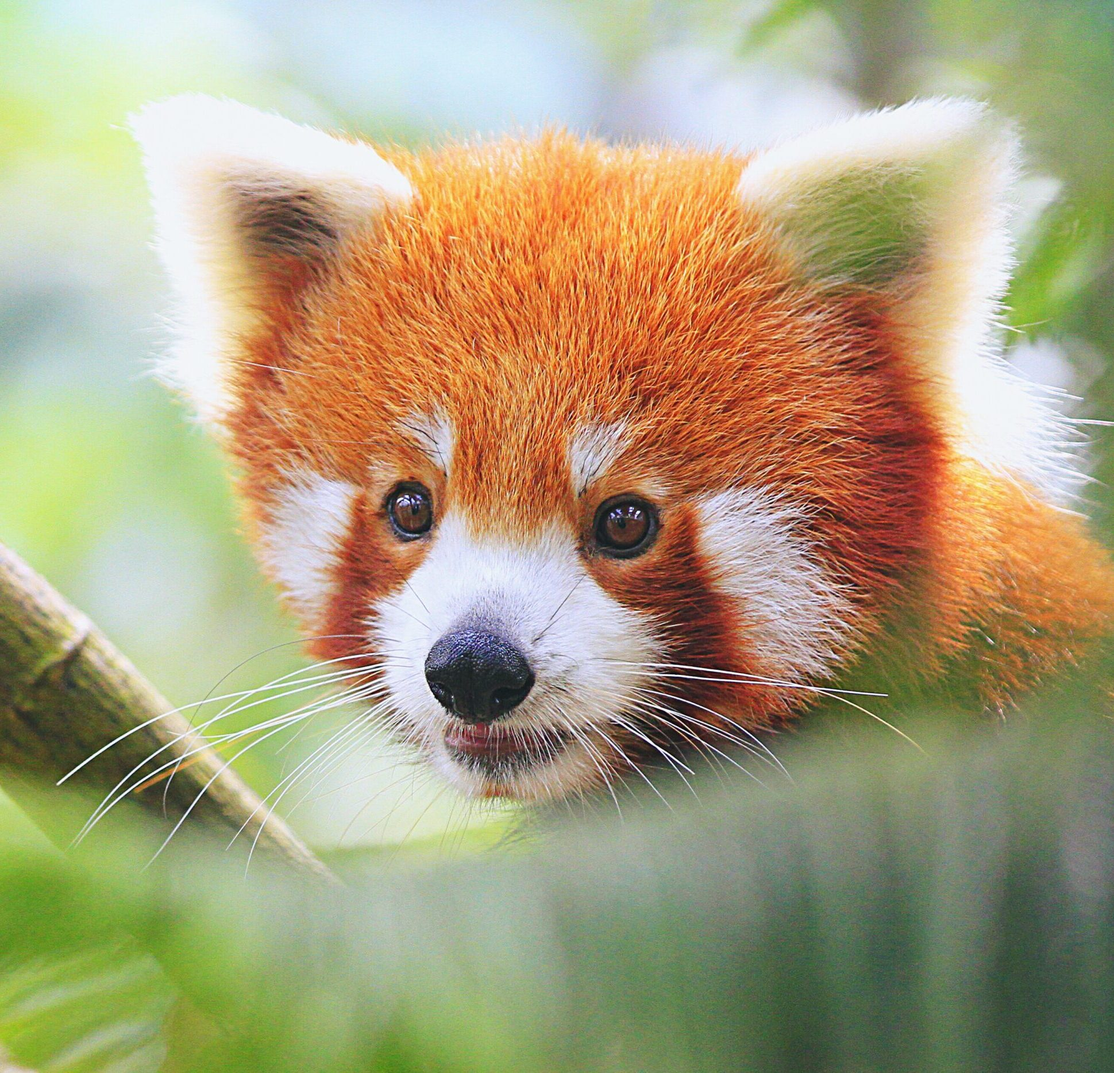
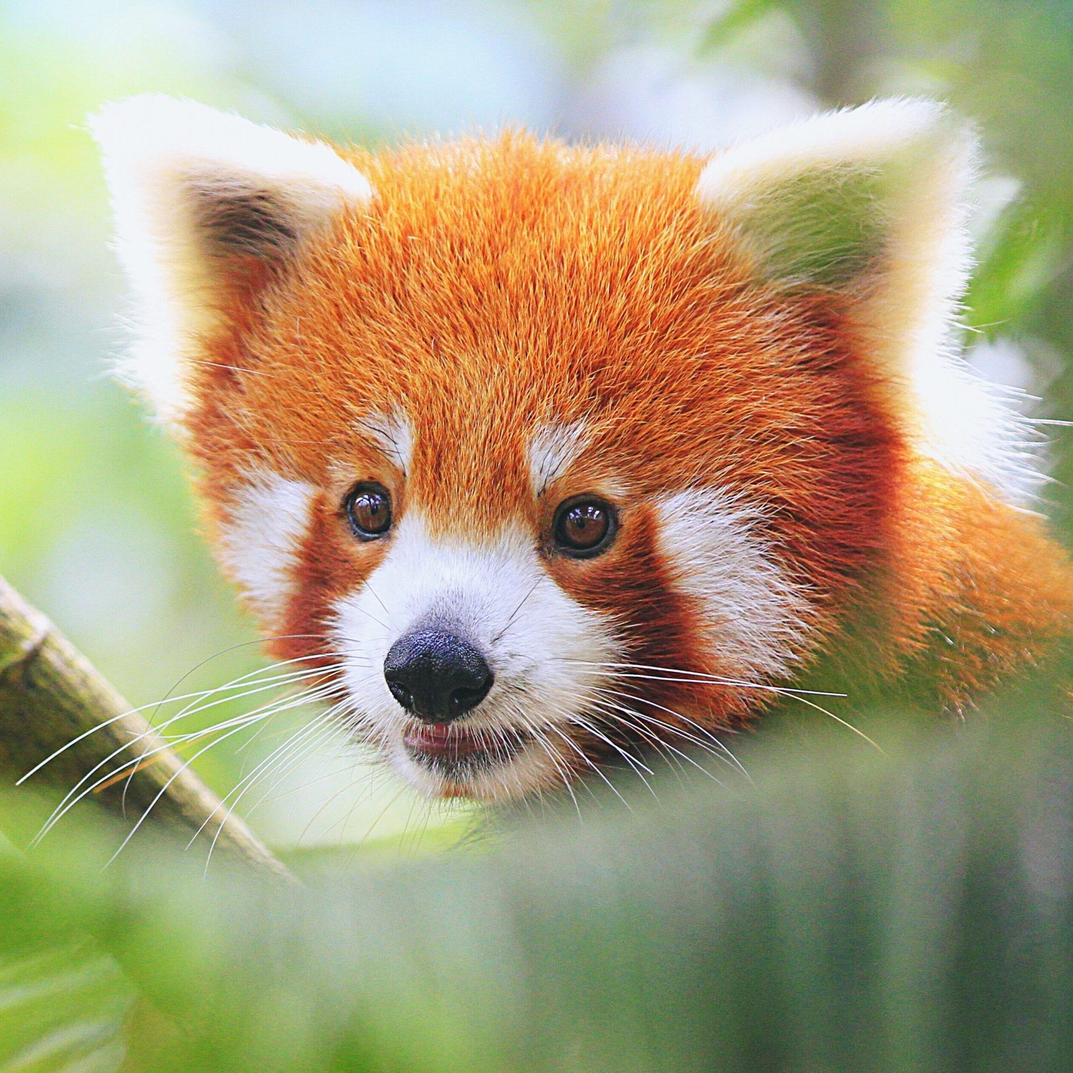
added comments for new code, removed redundant css code for images, fixed previously unnoticed formatting error with intro and diet section on larger screens

diff --git a/style.css b/style.css
@@ -2,10 +2,11 @@
 html {
     background-color: #81e689;
 }
+/* Makes all text white by default */
 body {
     color: white;
 }
-/* Centers h1 tags, gives them a unique font, removes margin to allow for styling with ids */
+/* Centers h1 tags, gives them a unique font, removes margin to allow for styling with ids, and changes the font size */
 h1 {
     font-family: Verdana, sans-serif;
     text-align: center;
@@ -34,6 +35,7 @@ nav {
 img {
     border-radius: 20px;
 }
+/* Styles the links in the navigation bar */
 nav a {
     font-family: Arial, sans-serif;
     border: 2px solid black;
@@ -78,10 +80,6 @@ footer {
 /* Puts select sections into a container and places them side by side */
 .container {
     display: flex;
-    flex-direction: column;
-}
-.image_div {
-    display: flex;
     flex-direction: row;
 }
 /* Puts border and spacing on images in the images sections */
@@ -90,7 +88,13 @@ footer {
     margin: 0px 2px;
     width: 240px;
 }
-
+/* Wraps and centers images so when browser size changes, images stay formatted neatly */
+.image_div {
+    display: flex;
+    flex-direction: row;
+    flex-wrap: wrap;
+    justify-content: center;
+  }
 /* Unique design for the header on the homepage */
 #homeheader {
     background-color: #af5913;
@@ -119,6 +123,7 @@ footer {
 }
 
 
+/* Changes formatting for screen width of 450px or less */
 @media (max-width: 450px) {
   h1 {
     font-size: 2.15em;
@@ -157,9 +162,5 @@ footer {
   .images {
     width: 120px;
     margin: 2px 2px;
-  }
-  .image_div {
-    flex-wrap: wrap;
-    justify-content: center;
   }
 }

diff --git a/index.html b/index.html
@@ -1,4 +1,5 @@
 <!DOCTYPE html>
+<!-- lang attribute defines the language of the webpage -->
 <html lang="en">
   <head>
     <!-- Puts a title in the website's tab -->
@@ -9,6 +10,7 @@
   <body>
     <header id="homeheader">
       <nav>
+        <!-- Creates a navigation bar that allows the user to go between pages -->
         <a href="index.html">Home</a> <a href="page2.html" >About</a>
       </nav>
       <!-- Title at top of page -->

diff --git a/page2.html b/page2.html
@@ -41,6 +41,7 @@
       </section>
     </main>
     <footer>
+      <!-- Links user back to previous page -->
       <a href="index.html" class="button">Back to home page</a>
     </footer>
   </body>
